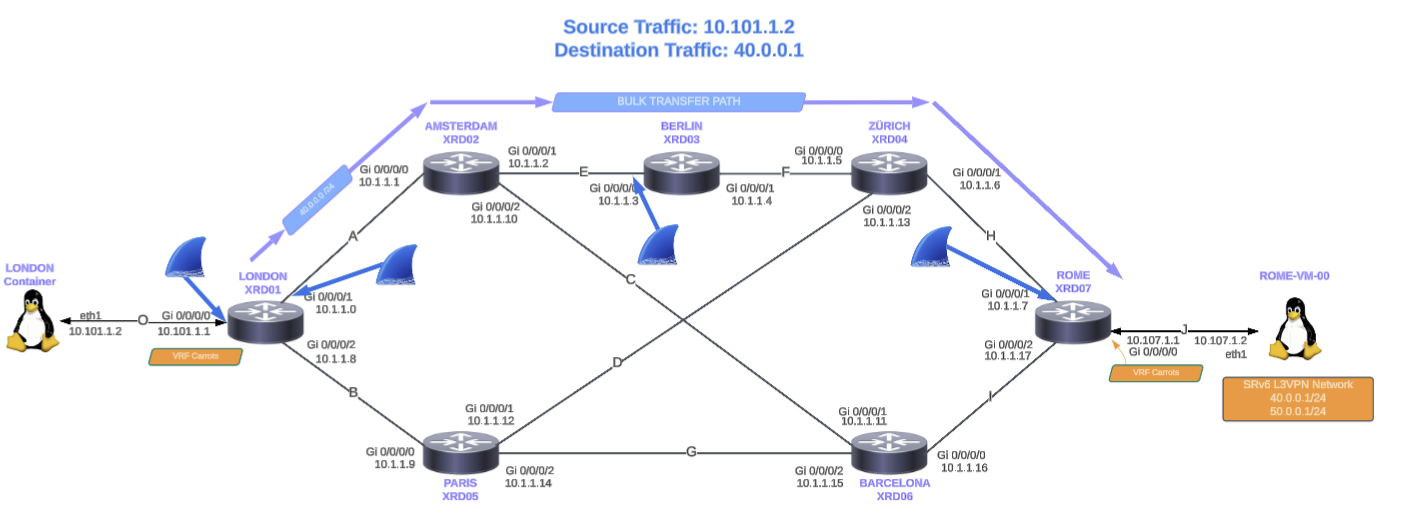
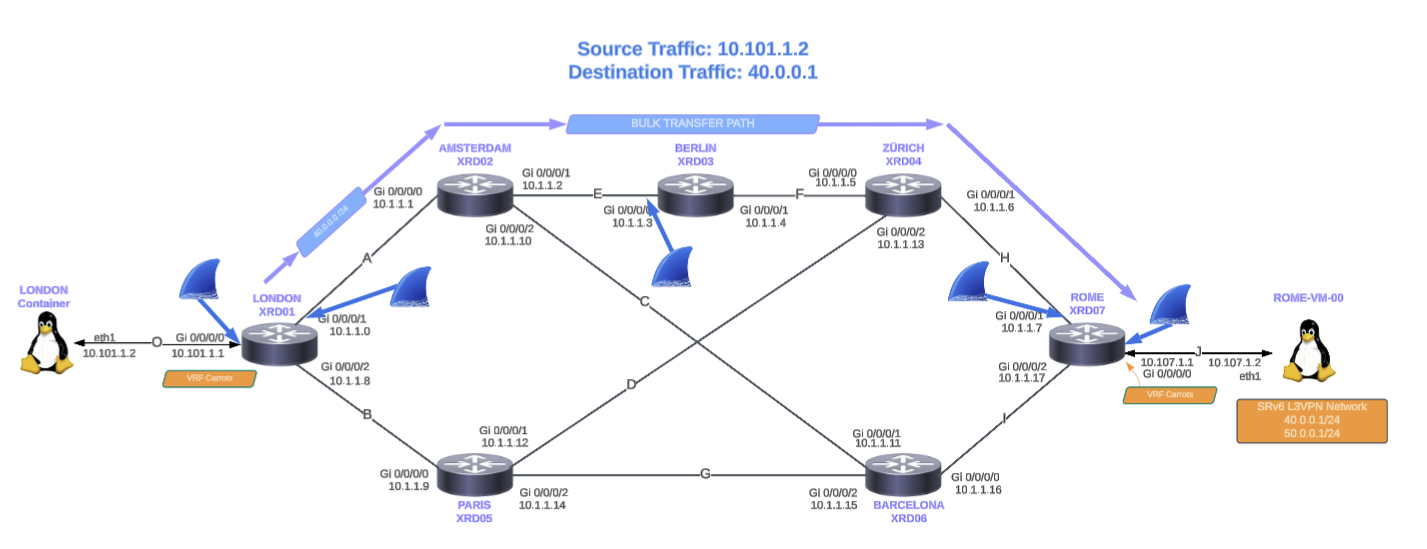
Lab2 - Packet walk

diff --git a/lab_2/lab_2-guide.md b/lab_2/lab_2-guide.md
@@ -529,11 +529,11 @@ The following diagram illustrates the expected traffic path and highlights the d
     
 3. Launch an edgeshark capture on container **london-xrd01** interface Gig0/0/0/1 to inspect the traffic.
    
-   ![Amsterdam edgeshark](../topo_drawings/lab2-xrd-edgeshark-g1.png) 
+   ![London edgeshark](../topo_drawings/lab2-xrd-edgeshark-g1.png) 
    
    Here is a visual representation of our capture :
    
-   ![Amsterdam edgeshark](../topo_drawings/lab2-xrd-edgeshark-pcap.png) 
+   ![London edgeshark](../topo_drawings/lab2-xrd-edgeshark-pcap.png) 
    
    If we focus on the IPv6 header (Outer Header - SRv6 transport layer) we can see the following:
 
@@ -548,14 +548,83 @@ uSIDs solve this by packing six hops into a single address, allowing complex TE 
 On-Demand Next-Hop (ODN) allows the headend to instantiate an SR Policy dynamically only when it receives a service route with a specific color. This eliminates the need to pre-configure "full mesh" tunnels, significantly improving scalability.
 
 
-4. Launch an edgeshark capture on container **rome-xrd07** interface Gig0/0/0/1 to inspect the traffic.
+4. Launch an edgeshark capture on container **berlin-xrd03** interface Gig0/0/0/0 to inspect the traffic.
+
+  ![Berlin Wireshark Capture](../topo_drawings/lab2-xrd03-wireshark-g0)
+
+Like in the previous steps, we need to focus on the IPv6 header (Outer Header - SRv6 transport layer):
+
+   - Source IPv6: fc00:0:1111::1 
+   - Destination IPv6: fc00:0::3333:7777:e007:: which defines a modified version of the SRv6 segment created earlier for traffic steering accross xrd02, xrd03, xrd04 and xrd07
+
+Unlike MPLS, which pops labels from a stack, SRv6 uSID manipulates the IPv6 Destination Address (DA) directly to expose the next instruction. Instead of removing a header, the router "strips" the active uSID by modifying the Destination Address itself.
+The router shifts the remaining bits of the uSID list (the portion after the Locator Block) to the left, typically by 16 bits.
+This shift overwrites the current router's uSID (effectively popping it) and moves the next uSID into the active position.
+
+In our lab, the active uSID 2222 is consumed at XRD02 and stripped from the destination address, resulting in fc00:0::3333:7777:e007:: downstream, proving that the SRv6 data plane is correctly executing and advancing the uSID instructions hop by hop.
+
+
+5. Launch an edgeshark capture on container **rome-xrd07** interface Gig0/0/0/0 to inspect the traffic sent by **Zurich-xrd04** who is the penultimate router.
+
+  ![Rome ingress Wireshark Capture](../topo_drawings/lab2-xrd07-wireshark-g1.png)
+
+In our lab, the entire path is compressed into the IPv6 Destination Address, and no SRH is present. In this case, the penultimate router performs a "Shift-and-Forward" operation.
+The penultimate router **zurich-xrd04** receives the packet and notice that the active portion of the Destination Address (DA) matches the router's own uSID ("4444" in our case).
+The router executes the "uN" (End) behavior. It pops (removes) its own uSID by shifting the remaining bits of the Destination Address to the left (typically by 16 bits). This action moves the next uSID (which belongs to the final destination router) into the active position of the address
+
+
+
+1. Launch an edgeshark capture on container **rome-xrd07** interface Gig0/0/0/1 to inspect the traffic.
 
   ![Rome Wireshark Capture](../topo_drawings/lab2-xrd07-wireshark-g1.png)
 
-In our lab, the entire path is compressed into the IPv6 Destination Address, and no SRH is present. In this case, the penultimate router performs a "Shift-and-Forward" operation.
-The penultimate router receives the packet. The active portion of the Destination Address (DA) matches the router's own uSID ("3333" in our case).
 
-The router executes the "uN" (End) behavior. It pops (removes) its own uSID by shifting the remaining bits of the Destination Address to the left (typically by 16 bits). This action moves the next uSID (which belongs to the final destination router) into the active position of the address
+
+
+
+
+
+
+
+
+
+
+
+
+
+
+
+
+
+
+
+
+
+
+
+
+
+
+
+
+
+
+
+
+
+
+
+
+
+
+
+
+
+
+
+
+
+
 
 
 **Validate low latency traffic takes the path: london-xrd01 -> 05 -> 06 -> rome-xrd07**
